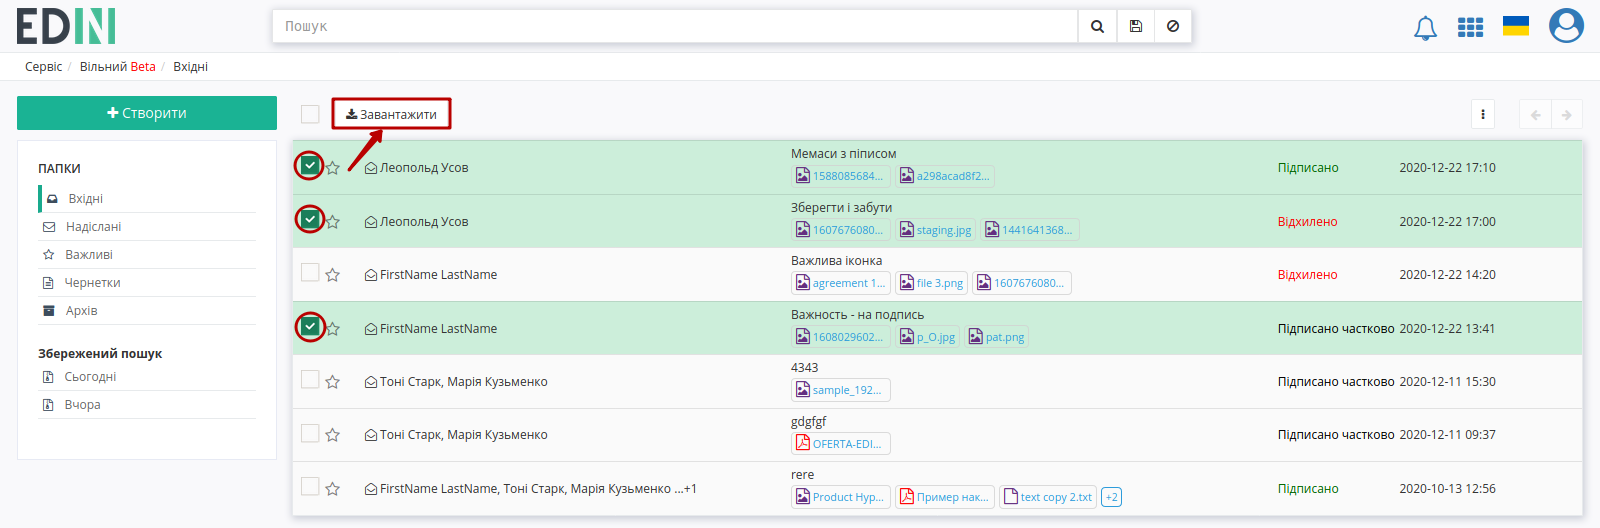
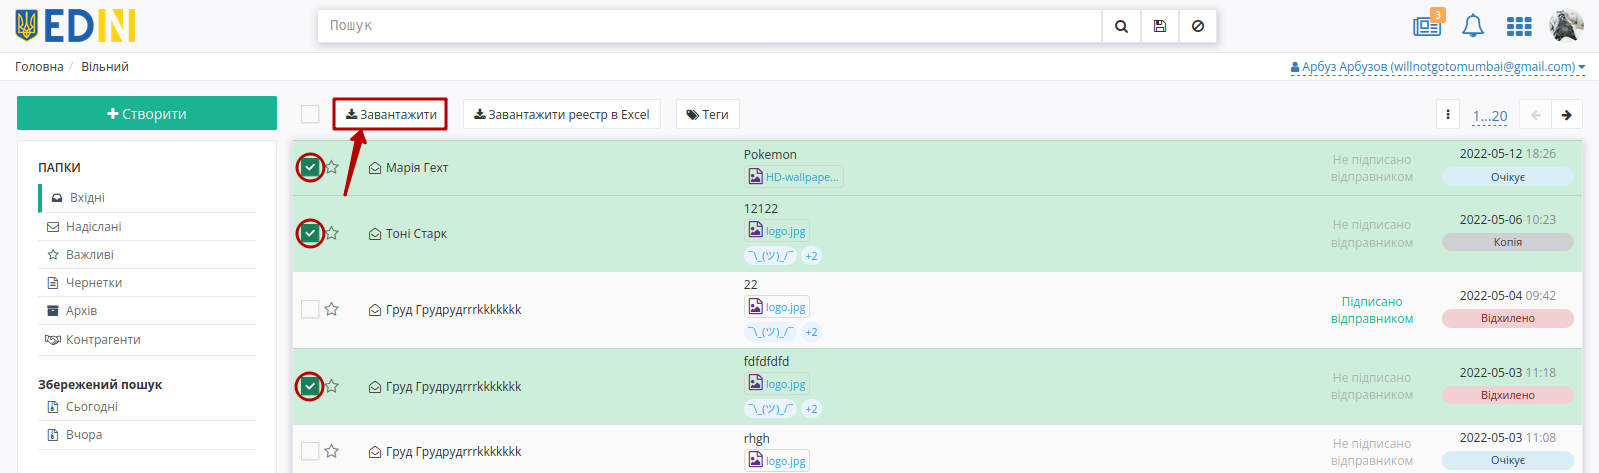
new_widget

diff --git a/docs/Vilnyi/Work_with_Vilnyi.rst b/docs/Vilnyi/Work_with_Vilnyi.rst
@@ -63,6 +63,12 @@
 
 .. |del_tag| image:: pics_Work_with_Vilnyi/Work_with_Vilnyi_119.png
 
+.. |ring| image:: pics_Work_with_Vilnyi/Work_with_Vilnyi_134.gif
+
+.. |success| image:: pics_Work_with_Vilnyi/Work_with_Vilnyi_131.png
+
+.. |error| image:: pics_Work_with_Vilnyi/Work_with_Vilnyi_130.png
+
 .. contents:: Зміст:
    :depth: 3
 
@@ -476,12 +482,33 @@
 **6 Масові операції**
 ================================================
 
+За допомогою масових операцій в сервісі легко завантажувати, підписувати, відправляти, видаляти одразу кілька документів в один клік! При запуску масових операцій в правому нижньому куті екрану запускається віджет, що відображає :navy:`процес` та :green:`результат` виконання поставлених задач для кожного документа/дії окремо:
+
+.. image:: pics_Work_with_Vilnyi/Work_with_Vilnyi_129.png
+
+.. image:: pics_Work_with_Vilnyi/Work_with_Vilnyi_128.png
+
+Навпроти назви документа/дії у віджеті відображається статус:
+
+* |ring| - задача в процесі обробки;
+* |success| - задача успішно виконана;
+* |error| - помилка виконання задачі.
+
+.. image:: pics_Work_with_Vilnyi/Work_with_Vilnyi_127.png
+   :align: center
+
+Віджет можливо згорнути чи закрити навіть під час виконання задач. Віджет можливо відновити, натиснувши на іконку процесу/помилки в нижній частині екрану (віджет з усіма успішно виконаними задачами не відновлюється після закривання):
+
+.. image:: pics_Work_with_Vilnyi/Work_with_Vilnyi_132.png
+
+.. image:: pics_Work_with_Vilnyi/Work_with_Vilnyi_133.png
+
 .. _mass-download:
 
-**6.2 Масове завантаження документів**
+**6.1 Масове завантаження документів**
 -------------------------------------------------
 
-Масове завантаження документів доступне з журналу документів. Для цього потрібно відмітити потрібні документи і натиснути кнопку **"Завантажити"**:
+**Масово завантажити документи** можливо за допомогою кнопки **"Завантажити"**:
 
 .. image:: pics_Work_with_Vilnyi/Work_with_Vilnyi_44.png
    :align: center
@@ -496,7 +523,7 @@
 
 .. _reestr:
 
-**6.3 Формування та завантаження реєстру документів**
+**6.2 Формування та завантаження реєстру документів**
 ---------------------------------------------------------
 
 Для бухгалтерського обліку передбачене консолідоване вивантаження даних обраних документів каталога (не більше 100 документів). Для цього потрібно відмітити потрібні документи і натиснути кнопку **"Завантажити реєстр в Excel"**:
@@ -514,7 +541,7 @@
 
 .. _mass-pdf:
 
-**6.4 Масове завантаження pdf-файлів**
+**6.3 Масове завантаження pdf-файлів**
 -------------------------------------------------
 
 В каталозі **"Чернетки"** можливо масово завантажити pdf-файли за допомогою кнопки **"Завантажити PDF"**. Після натискання кнопки в popup вікні вказуються правила до завантаження: 

diff --git a/docs/API_Vilnyi/Methods/DocumentZip.rst b/docs/API_Vilnyi/Methods/DocumentZip.rst
@@ -11,4 +11,4 @@
 
 **RESPONSE**
 
-В тілі **відповіді** передається документ (zip-архів). Детальніше про `завантаження <https://wiki.edin.ua/uk/latest/Vilnyi/Work_with_Vilnyi.html#mass-download>`__. 
+В тілі **відповіді** передається документ (zip-архів). Детальніше про `завантаження <https://wiki.edin.ua/uk/latest/Vilnyi/Work_with_Vilnyi.html#mass-operations>`__. 
